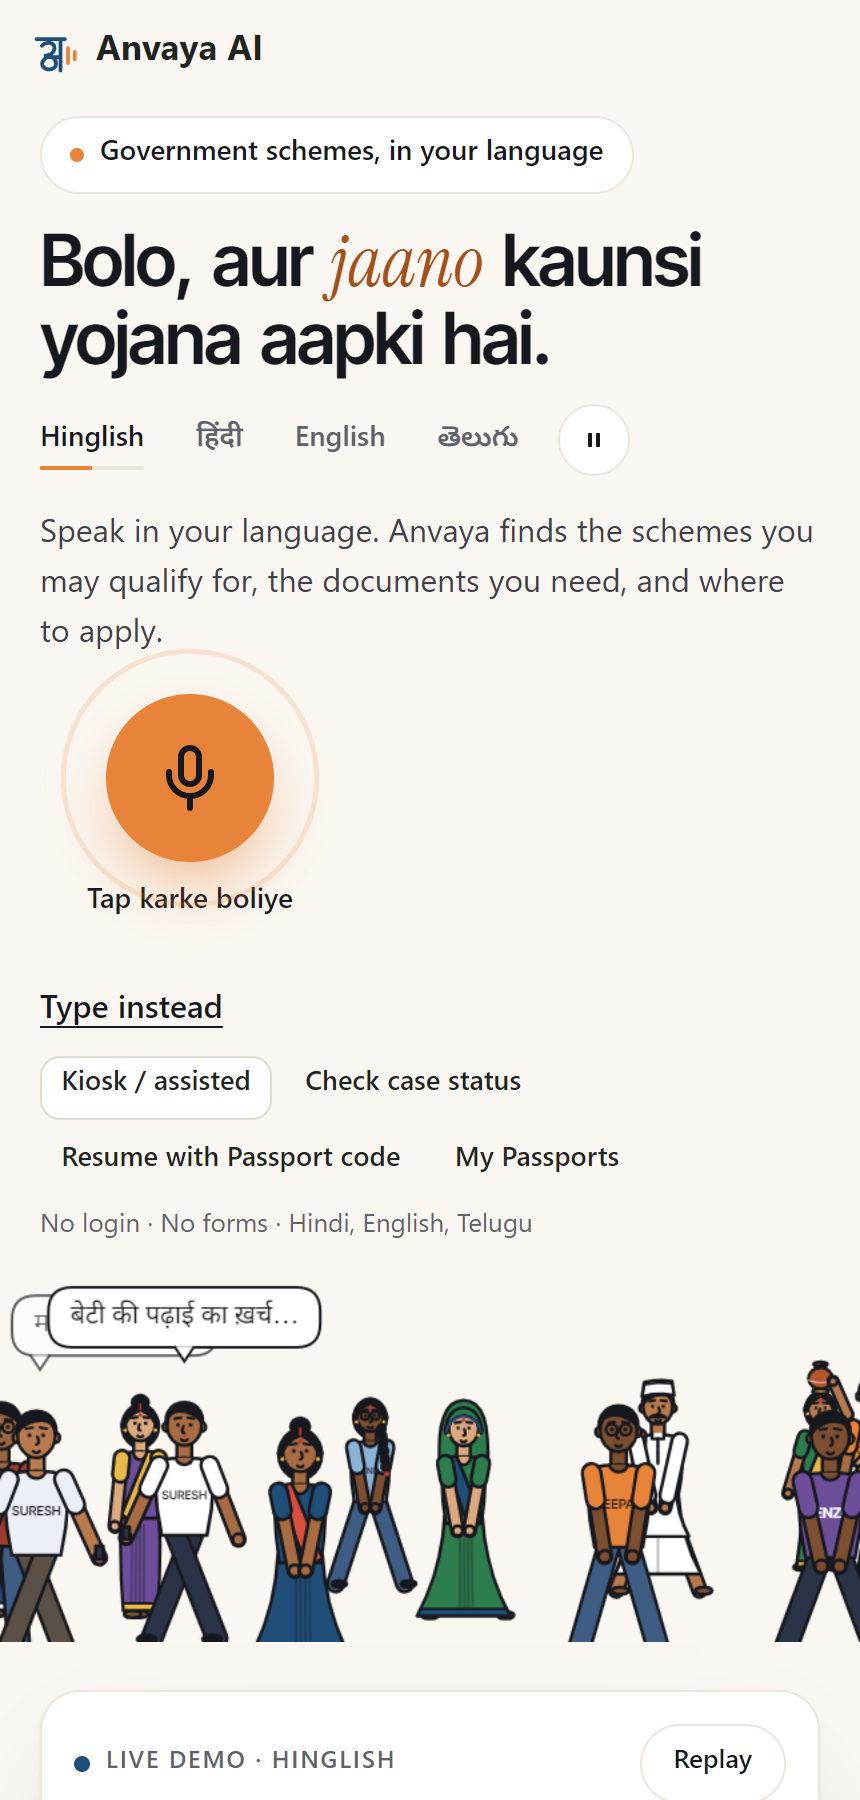
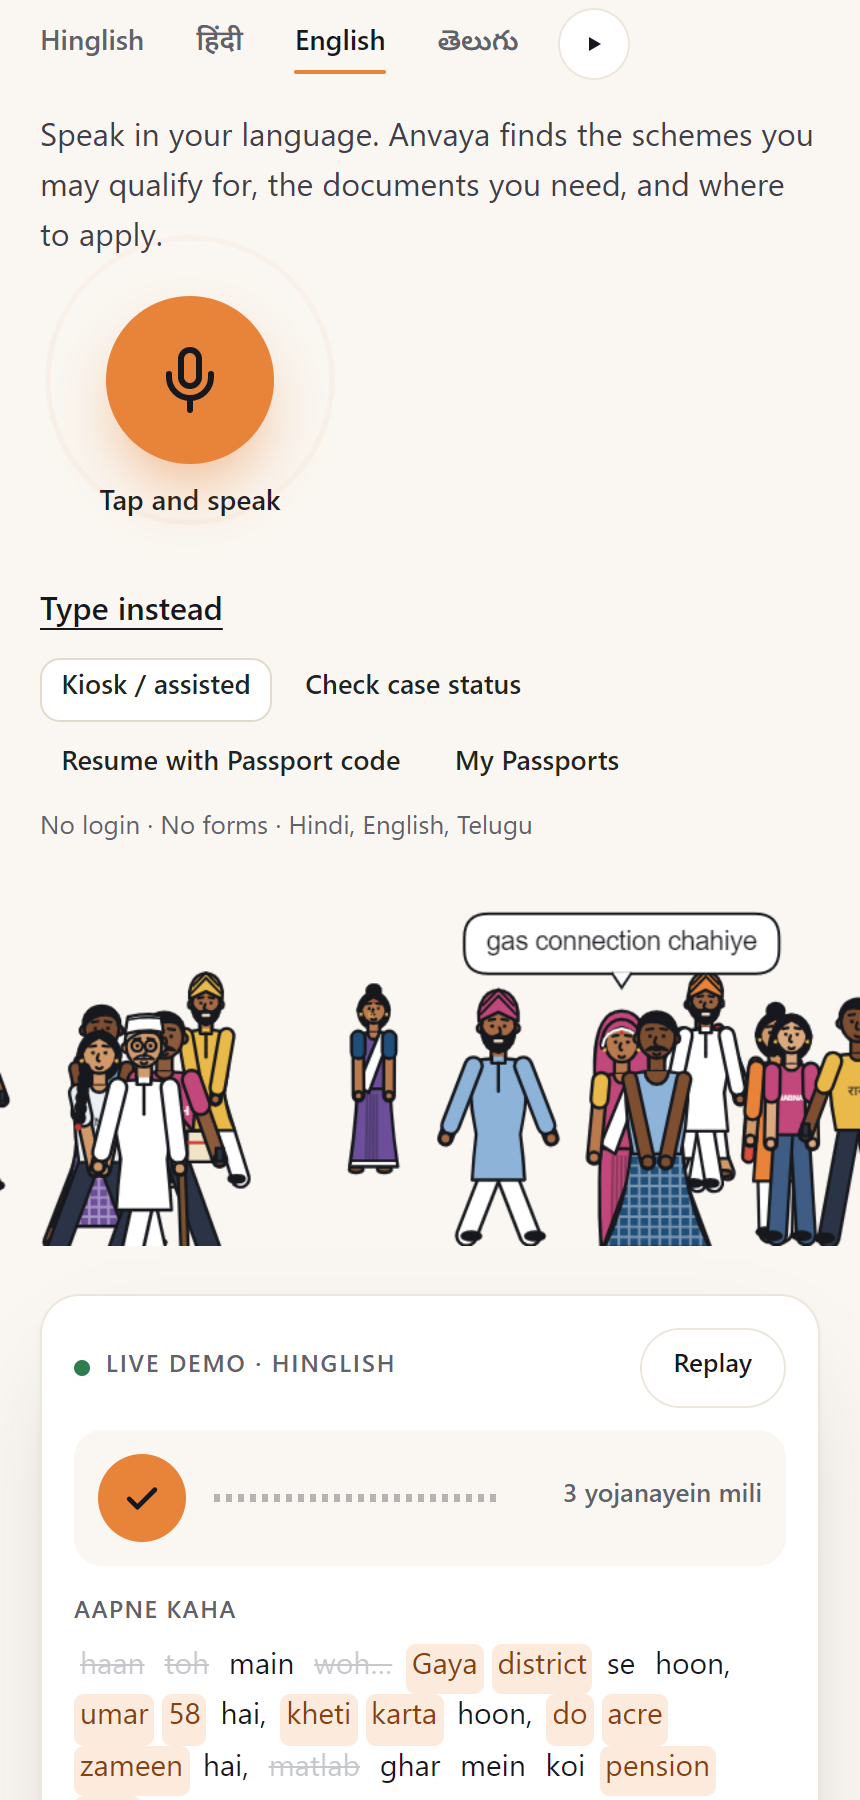
Landing: headline fits two lines on wide screens (Hinglish and English)
The headline column is wider (the demo card is capped at 440px anyway) and the Latin headline size is a little smaller,
so "Bolo, aur jaano kaunsi / yojana aapki hai." and the English line each take two lines from 1100px up. README
landing screenshots retaken.

diff --git a/frontend/src/landing/landing.css b/frontend/src/landing/landing.css
@@ -32,6 +32,8 @@
 /* ---- hero */
 .l-hero { padding-top: 14px; display: flex; flex-direction: column; min-height: calc(100svh - 56px); }
 .l-hero-grid { display: grid; grid-template-columns: repeat(auto-fit, minmax(min(440px, 100%), 1fr)); gap: 36px; align-items: center; }
+/* Wide screens: the headline gets the wider column (the demo card is capped at 440px anyway), so the Hinglish line fits two lines. */
+@media (min-width: 1000px) { .l-hero-grid { grid-template-columns: minmax(0, 1.3fr) minmax(0, .8fr); } .l-hero-demo { justify-content: flex-end; } }
 .l-hero-copy { display: flex; flex-direction: column; gap: 14px; min-width: 0; }
 .l-eyebrow { align-self: flex-start; display: inline-flex; align-items: center; gap: 8px; padding: 8px 14px; border-radius: 999px; background: #FFFFFF; border: 1px solid var(--l-line); font-size: 14px; font-weight: 500; }
 .l-eyebrow i { width: 7px; height: 7px; border-radius: 50%; background: var(--l-accent); }
@@ -57,7 +59,7 @@
 .hl { display: flex; flex-direction: column; gap: 10px; }
 .hl-stage { display: grid; font-family: var(--l-display); font-weight: 600; }
 .hl-line { grid-area: 1 / 1; align-self: start; text-wrap: balance; }
-.hl-latin { font-size: clamp(36px, 4.3vw, 60px); line-height: 1.06; letter-spacing: -.03em; }
+.hl-latin { font-size: clamp(34px, 4vw, 56px); line-height: 1.06; letter-spacing: -.03em; }
 .hl-indic { font-size: clamp(26px, 2.7vw, 38px); line-height: 1.35; letter-spacing: 0; }
 .hl-latin .hl-unit { margin-right: .26em; }
 .hl-unit { display: inline-block; will-change: transform, opacity, filter; }
